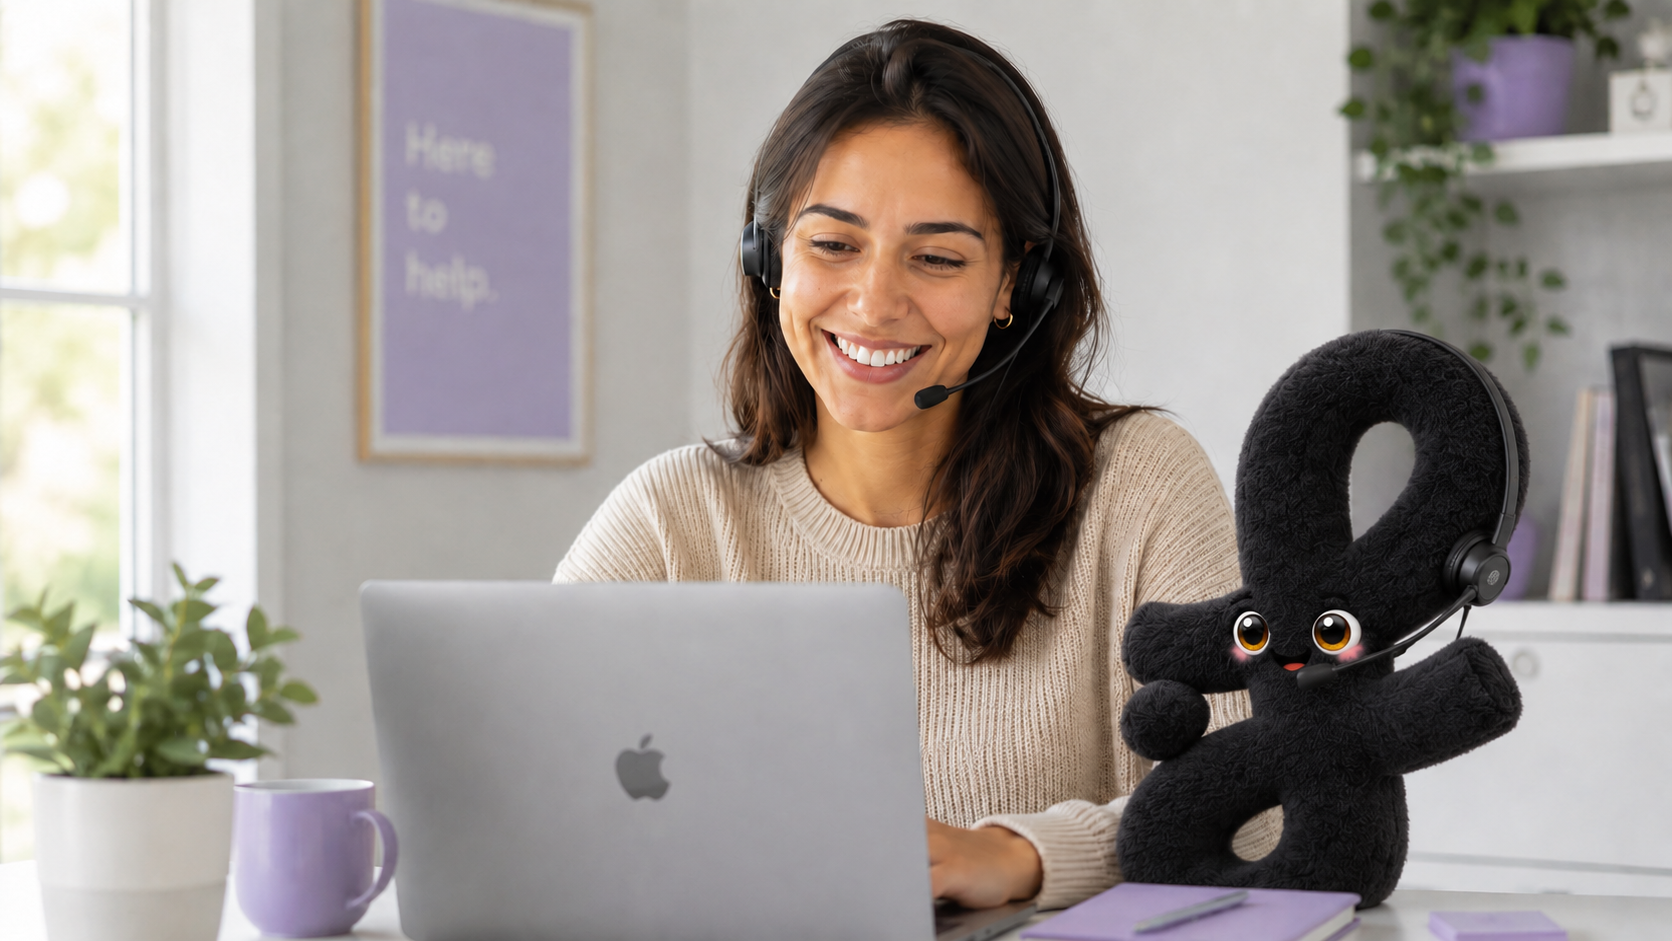
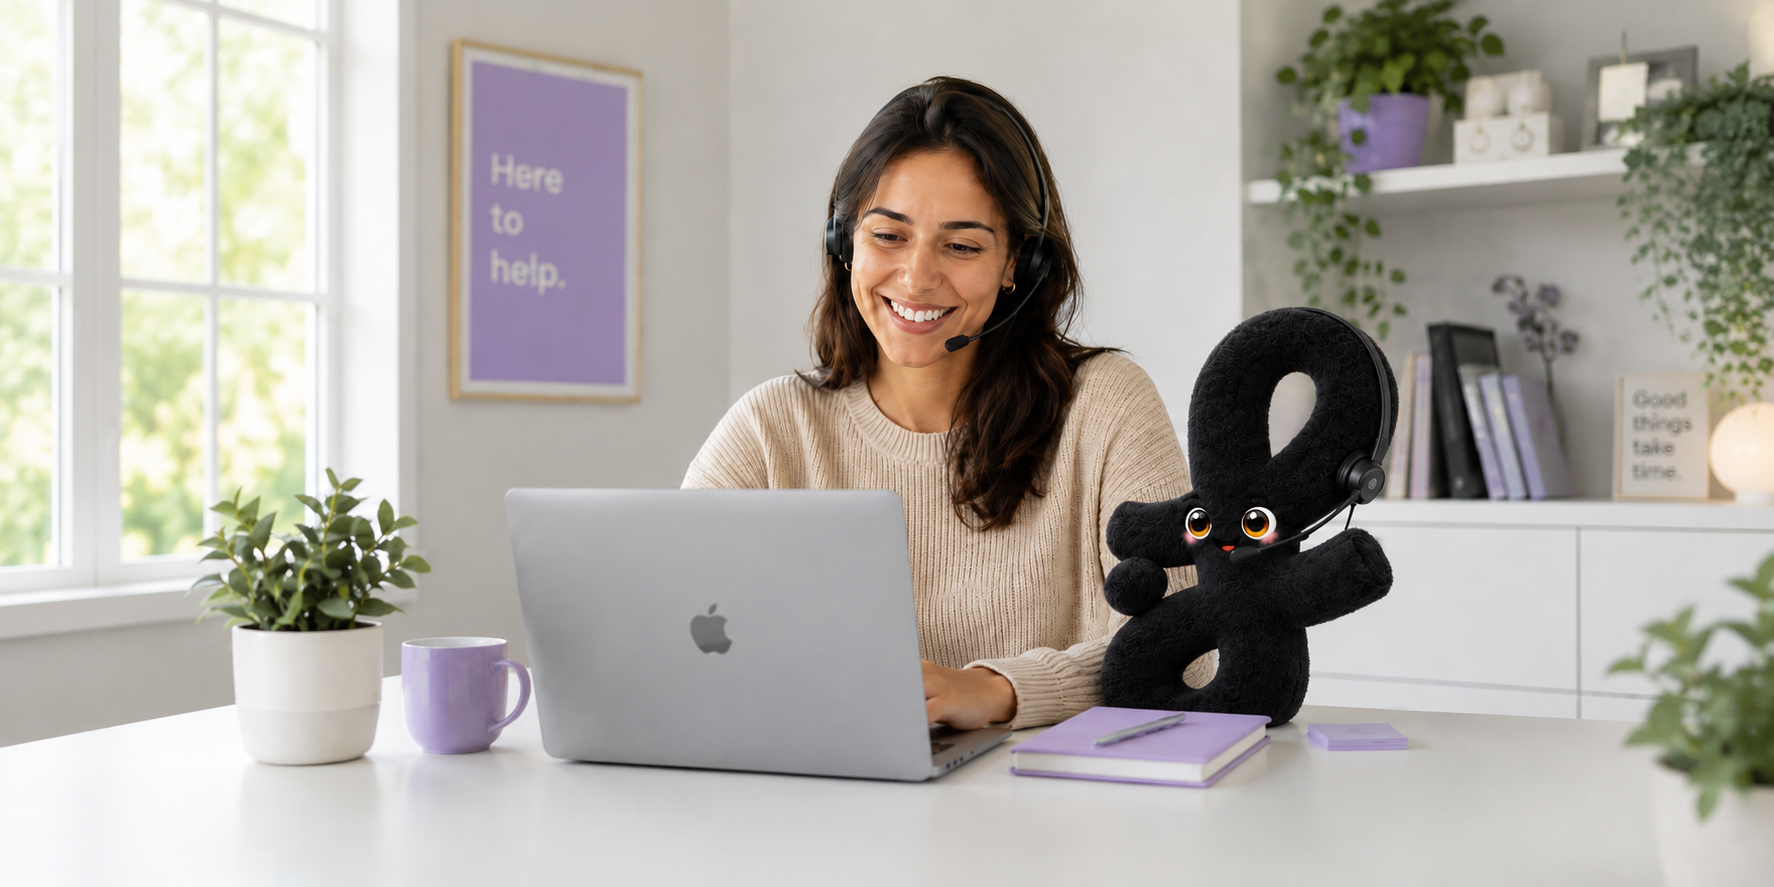
feat(admin): show Stripe coupon/promo code in Zahlungen; update sidebar support card image
- API: expand invoice discounts + subscription discount with promo code
- Admin user detail: show coupon/promo code as green tag next to Zahlungen heading
- Sidebar: replace support image with new wider scene, switch to 16:9 crop ratio

diff --git a/src/app/api/admin/users/[id]/route.ts b/src/app/api/admin/users/[id]/route.ts
@@ -48,14 +48,35 @@ export async function GET(req: NextRequest, { params }: { params: Promise<{ id: 
 
   if (!profile) return NextResponse.json({ error: 'Not found' }, { status: 404 })
 
-  // Stripe invoices if customer exists
+  // Stripe invoices + subscription discount if customer exists
   let invoices: Stripe.Invoice[] = []
+  let subscriptionDiscount: { couponName: string | null; promoCode: string | null } | null = null
   if (profile.stripeCustomerId) {
     try {
-      const result = await getStripe().invoices.list({ customer: profile.stripeCustomerId, limit: 10 })
-      invoices = result.data
+      const [invoiceResult, subsResult] = await Promise.all([
+        getStripe().invoices.list({
+          customer: profile.stripeCustomerId,
+          limit: 10,
+          expand: ['data.discounts', 'data.total_discount_amounts.discount'],
+        }),
+        profile.stripeSubscriptionId
+          ? getStripe().subscriptions.retrieve(profile.stripeSubscriptionId, {
+              expand: ['discount.promotion_code'],
+            })
+          : Promise.resolve(null),
+      ])
+      invoices = invoiceResult.data
+      if (subsResult && subsResult.discount) {
+        const disc = subsResult.discount as Stripe.Discount & { promotion_code?: Stripe.PromotionCode | string | null }
+        subscriptionDiscount = {
+          couponName: disc.coupon?.name ?? disc.coupon?.id ?? null,
+          promoCode: disc.promotion_code && typeof disc.promotion_code === 'object'
+            ? (disc.promotion_code as Stripe.PromotionCode).code ?? null
+            : null,
+        }
+      }
     } catch { /* ignore */ }
   }
 
-  return NextResponse.json({ profile, sites, invoices, events })
+  return NextResponse.json({ profile, sites, invoices, events, subscriptionDiscount })
 }

diff --git a/src/app/(admin)/admin/users/[id]/page.tsx b/src/app/(admin)/admin/users/[id]/page.tsx
@@ -11,6 +11,7 @@ interface UserProfile {
   subscriptionStatus: string | null
   createdAt: string
   stripeCustomerId: string | null
+  stripeSubscriptionId: string | null
 }
 
 interface UserSite {
@@ -48,6 +49,7 @@ interface UserDetail {
   sites: UserSite[]
   invoices: Invoice[]
   events: SubscriptionEvent[]
+  subscriptionDiscount: { couponName: string | null; promoCode: string | null } | null
 }
 
 interface SupportConv {
@@ -144,7 +146,7 @@ export default function AdminUserDetailPage({ params }: { params: Promise<{ id: 
     )
   }
 
-  const { profile, sites, invoices, events } = data
+  const { profile, sites, invoices, events, subscriptionDiscount } = data
   const planColor = PLAN_COLORS[profile.plan] ?? PLAN_COLORS.starter
 
   return (
@@ -278,7 +280,21 @@ export default function AdminUserDetailPage({ params }: { params: Promise<{ id: 
         {/* Invoices */}
         <div className="p-6 rounded-[24px] bg-white flex flex-col gap-3"
           style={{ boxShadow: '0 4px 20px rgba(0,0,0,0.08)', border: '1px solid var(--border)' }}>
-          <h2 className="font-medium text-gray-900">Zahlungen</h2>
+          <div className="flex items-center justify-between gap-3">
+            <h2 className="font-medium text-gray-900">Zahlungen</h2>
+            {subscriptionDiscount && (subscriptionDiscount.promoCode || subscriptionDiscount.couponName) && (
+              <div className="flex items-center gap-1.5 px-2.5 py-1 rounded-full"
+                style={{ background: '#F0FDF4', border: '1px solid #BBF7D0' }}>
+                <svg width="11" height="11" viewBox="0 0 24 24" fill="none" stroke="#16A34A" strokeWidth="2.5">
+                  <path d="M20.59 13.41l-7.17 7.17a2 2 0 01-2.83 0L2 12V2h10l8.59 8.59a2 2 0 010 2.82z"/>
+                  <line x1="7" y1="7" x2="7.01" y2="7"/>
+                </svg>
+                <span className="text-xs font-semibold" style={{ color: '#16A34A' }}>
+                  {subscriptionDiscount.promoCode ?? subscriptionDiscount.couponName}
+                </span>
+              </div>
+            )}
+          </div>
           {!profile.stripeCustomerId ? (
             <div className="flex items-center gap-2 p-3 rounded-[12px]" style={{ background: '#FFF7ED', border: '1px solid #FED7AA' }}>
               <svg width="14" height="14" viewBox="0 0 24 24" fill="none" stroke="#C2410C" strokeWidth="2">

diff --git a/src/components/dashboard/Sidebar.tsx b/src/components/dashboard/Sidebar.tsx
@@ -123,15 +123,15 @@ export function DashboardSidebar() {
           onMouseEnter={e => { (e.currentTarget as HTMLElement).style.boxShadow = '0 4px 16px rgba(0,0,0,0.12)'; (e.currentTarget as HTMLElement).style.transform = 'translateY(-1px)' }}
           onMouseLeave={e => { (e.currentTarget as HTMLElement).style.boxShadow = '0 1px 4px rgba(0,0,0,0.06)'; (e.currentTarget as HTMLElement).style.transform = 'none' }}
         >
-          {/* Image — 4:3 crop, face + mascot centered */}
-          <div style={{ position: 'relative', aspectRatio: '4/3', overflow: 'hidden' }}>
+          {/* Image — 16:9 crop, wide scene */}
+          <div style={{ position: 'relative', aspectRatio: '16/9', overflow: 'hidden' }}>
             {/* eslint-disable-next-line @next/next/no-img-element */}
             <img
               src="/support-team.jpg"
               alt="Support"
               style={{
                 width: '100%', height: '100%',
-                objectFit: 'cover', objectPosition: '50% 20%',
+                objectFit: 'cover', objectPosition: '50% 30%',
                 display: 'block',
               }}
             />